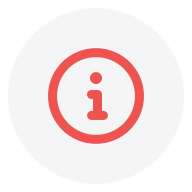
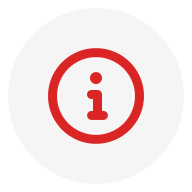
update theme for accessibility

Changed region(s): [[0.25, 0.25, 0.75, 0.75], [0.4375, 0.4688, 0.5625, 0.625], [0.4688, 0.375, 0.5312, 0.4375]]

diff --git a/docs/css/styles.css b/docs/css/styles.css
@@ -1,1 +1,1 @@
-:root{--sans-font:-apple-system,BlinkMacSystemFont,"Avenir Next",Avenir,"Nimbus Sans L",Roboto,Noto,"Segoe UI",Arial,Helvetica,"Helvetica Neue",sans-serif;--mono-font:Consolas,Menlo,Monaco,"Andale Mono","Ubuntu Mono",monospace;--accent:#e23834;--accent-text:#f5f7ff;--bg:#fff;--accent-2:#f5f7ff;--text:#212121;--text-light:#585858;--code:#d81b60;--preformatted:#444;--marked:#ffdd33;--disabled:#efefef}@media (prefers-color-scheme:dark){:root{color-scheme:dark;--bg:#212121;--accent-2:#2b2b2b;--text:#dcdcdc;--text-light:#ababab;--code:#f06292;--preformatted:#ccc;--disabled:#111}img,video{opacity:.8}}html{font-family:var(--sans-font);scroll-behavior:smooth}body{color:var(--text);background:var(--bg);font-size:1.15rem;line-height:1.5;display:grid;grid-template-columns:1fr min(45rem,90%) 1fr;margin:0}body>*{grid-column:2}body>header{background:var(--accent);text-align:center;padding:0 .5rem 2rem .5rem;grid-column:1/-1;box-sizing:border-box;position:sticky;top:0;z-index:1000}body>header h1{max-width:1200px;margin:1rem auto}body>header p{max-width:40rem;margin:1rem auto}body>header *{color:var(--accent-text)}main{padding-top:1.5rem}body>footer{margin-top:4rem;padding:2rem 1rem 1.5rem 1rem;color:var(--text-light);font-size:.9rem;text-align:center;border-top:1px solid var(--text)}h1{font-size:3rem}h2{font-size:2.6rem;margin-top:3rem}h3{font-size:2rem;margin-top:3rem}h4{font-size:1.44rem}h5{font-size:1.15rem}h6{font-size:.96rem}h1,h2,h3{line-height:1.1}@media only screen and (max-width:720px){h1{font-size:2.5rem}h2{font-size:2.1rem}h3{font-size:1.75rem}h4{font-size:1.25rem}}a,a:visited{color:var(--accent)}a:hover{text-decoration:none}[role=button],button,input[type=button],input[type=reset],input[type=submit],label[type=button]{border:none;border-radius:.2rem;background:var(--accent);font-size:1rem;color:var(--accent-text);padding:.7rem .9rem;margin:.5rem 0}[role=button][aria-disabled=true],button[disabled],input[type=button][disabled],input[type=checkbox][disabled],input[type=radio][disabled],input[type=reset][disabled],input[type=submit][disabled],select[disabled]{opacity:.5;cursor:not-allowed}input:disabled,select:disabled,textarea:disabled{cursor:not-allowed;background-color:var(--disabled)}input[type=range]{padding:0}abbr{cursor:help}[role=button]:focus,[role=button]:not([aria-disabled=true]):hover,button:enabled:hover,button:focus,input[type=button]:enabled:hover,input[type=button]:focus,input[type=reset]:enabled:hover,input[type=reset]:focus,input[type=submit]:enabled:hover,input[type=submit]:focus,label[type=button]:focus,label[type=button]:hover{cursor:pointer}nav{font-size:1rem;line-height:2;padding:1rem 0 0 0}nav ol,nav ul{align-content:space-around;align-items:center;display:flex;flex-direction:row;justify-content:center;list-style-type:none;margin:0;padding:0}nav ol li,nav ul li{display:inline-block}nav a,nav a:visited{margin:0 1rem 1rem 0;border:1px solid var(--accent-text);border-radius:.2rem;color:var(--accent-text);display:inline-block;padding:.1rem 1rem;text-decoration:none}nav a:last-child{margin-right:0}@media only screen and (max-width:720px){nav a{border:none;padding:0;text-decoration:underline;line-height:1}}details{background:var(--accent);border:1px solid var(--accent-text);border-radius:.2rem;margin-bottom:1rem}summary{cursor:pointer;font-weight:700;padding:.6rem 1rem}details[open]{padding:.6rem 1rem .75rem 1rem}details[open] summary+*{margin-top:0}details[open] summary{margin-bottom:.5rem;padding:0}details[open]>:last-child{margin-bottom:0}table{border-collapse:collapse;width:100%;margin:1.5rem 0}td,th{border:1px solid var(--text);text-align:left;padding:.5rem}th{background:var(--accent-bg);font-weight:700}tr:nth-child(even){background:var(--accent-bg)}table caption{font-weight:700;margin-bottom:.5rem}input,select,textarea{font-size:inherit;font-family:inherit;padding:.5rem;margin-bottom:.5rem;color:var(--text);background:var(--bg);border:1px solid var(--text);border-radius:.2rem;box-shadow:none;box-sizing:border-box;width:60%;-moz-appearance:none;-webkit-appearance:none;appearance:none}input[type=checkbox],input[type=radio]{vertical-align:bottom;position:relative}input[type=radio]{border-radius:100%}input[type=checkbox]:checked,input[type=radio]:checked{background:var(--accent)}input[type=checkbox]:checked::after{content:" ";width:.1em;height:.25em;border-radius:0;position:absolute;top:.05em;left:.18em;background:0 0;border-right:solid var(--bg) .08em;border-bottom:solid var(--bg) .08em;font-size:1.8em;transform:rotate(45deg)}input[type=radio]:checked::after{content:" ";width:.25em;height:.25em;border-radius:100%;position:absolute;top:.125em;background:var(--bg);left:.125em;font-size:32px}textarea{width:80%}@media only screen and (max-width:720px){input,select,textarea{width:100%}}input[type=checkbox],input[type=radio]{width:auto}input[type=file]{border:0}hr{color:var(--text);border-top:1px;margin:1rem auto}mark{padding:2px 5px;border-radius:4px;background:var(--marked)}main img,main video{max-width:100%;height:auto;border-radius:.2rem}figure{margin:0;text-align:center}figcaption{font-size:.9rem;color:var(--text-light);margin-bottom:1rem}blockquote{margin:2rem 0 2rem 2rem;padding:.4rem .8rem;border-left:.35rem solid var(--accent);color:var(--text-light);font-style:italic}cite{font-size:.9rem;color:var(--text-light);font-style:normal}code,kbd,pre,pre span,samp{font-family:var(--mono-font);color:var(--code)}kbd{color:var(--preformatted);border:1px solid var(--preformatted);border-bottom:3px solid var(--preformatted);border-radius:.2rem;padding:.1rem .4rem}pre{padding:1rem 1.4rem;max-width:100%;overflow:auto;color:var(--preformatted);background:var(--accent-bg);border:1px solid var(--text);border-radius:.2rem}pre code{color:var(--preformatted);background:0 0;margin:0;padding:0}*{word-wrap:break-word;-webkit-user-select:none;user-select:none;font-family:-apple-system,BlinkMacSystemFont,"Avenir Next",Avenir,"Nimbus Sans L",Roboto,Noto,"Segoe UI",Arial,Helvetica,"Helvetica Neue",sans-serif;border-radius:.2rem}[aria-current=page]{font-weight:700;font-style:italic}input,select,textarea{width:100%;resize:none;font-family:Consolas,Menlo,Monaco,"Andale Mono","Ubuntu Mono",monospace;-webkit-user-select:text;user-select:text}body>header{padding-bottom:0;border:none}nav{padding:0}main{padding-top:.5rem}progress{width:100%}progress::-webkit-progress-bar{border-radius:.2rem}progress::-webkit-progress-value{border-radius:.2rem;transition-property:width;transition-duration:.3s}progress::-moz-progress-bar{border-radius:.2rem}label{display:inline-block}
+:root{--sans-font:-apple-system,BlinkMacSystemFont,"Avenir Next",Avenir,"Nimbus Sans L",Roboto,Noto,"Segoe UI",Arial,Helvetica,"Helvetica Neue",sans-serif;--mono-font:Consolas,Menlo,Monaco,"Andale Mono","Ubuntu Mono",monospace;--accent:#db2525;--accent-text:#f5f7ff;--bg:#fff;--accent-2:#f5f7ff;--text:#212121;--text-light:#585858;--code:#d81b60;--preformatted:#444;--marked:#ffdd33;--disabled:#efefef}@media (prefers-color-scheme:dark){:root{color-scheme:dark;--bg:#212121;--accent-2:#2b2b2b;--text:#dcdcdc;--text-light:#ababab;--code:#f06292;--preformatted:#ccc;--disabled:#111}img,video{opacity:.8}}html{font-family:var(--sans-font);scroll-behavior:smooth}body{color:var(--text);background:var(--bg);font-size:1.15rem;line-height:1.5;display:grid;grid-template-columns:1fr min(45rem,90%) 1fr;margin:0}body>*{grid-column:2}body>header{background:var(--accent);text-align:center;padding:0 .5rem 2rem .5rem;grid-column:1/-1;box-sizing:border-box;position:sticky;top:0;z-index:1000}body>header h1{max-width:1200px;margin:1rem auto}body>header p{max-width:40rem;margin:1rem auto}body>header *{color:var(--accent-text)}main{padding-top:1.5rem}body>footer{margin-top:4rem;padding:2rem 1rem 1.5rem 1rem;color:var(--text-light);font-size:.9rem;text-align:center;border-top:1px solid var(--text)}h1{font-size:3rem}h2{font-size:2.6rem;margin-top:3rem}h3{font-size:2rem;margin-top:3rem}h4{font-size:1.44rem}h5{font-size:1.15rem}h6{font-size:.96rem}h1,h2,h3{line-height:1.1}@media only screen and (max-width:720px){h1{font-size:2.5rem}h2{font-size:2.1rem}h3{font-size:1.75rem}h4{font-size:1.25rem}}a,a:visited{color:var(--accent)}a:hover{text-decoration:none}[role=button],button,input[type=button],input[type=reset],input[type=submit],label[type=button]{border:none;border-radius:.2rem;background:var(--accent);font-size:1rem;color:var(--accent-text);padding:.7rem .9rem;margin:.5rem 0}[role=button][aria-disabled=true],button[disabled],input[type=button][disabled],input[type=checkbox][disabled],input[type=radio][disabled],input[type=reset][disabled],input[type=submit][disabled],select[disabled]{opacity:.5;cursor:not-allowed}input:disabled,select:disabled,textarea:disabled{cursor:not-allowed;background-color:var(--disabled)}input[type=range]{padding:0}abbr{cursor:help}[role=button]:focus,[role=button]:not([aria-disabled=true]):hover,button:enabled:hover,button:focus,input[type=button]:enabled:hover,input[type=button]:focus,input[type=reset]:enabled:hover,input[type=reset]:focus,input[type=submit]:enabled:hover,input[type=submit]:focus,label[type=button]:focus,label[type=button]:hover{cursor:pointer}nav{font-size:1rem;line-height:2;padding:1rem 0 0 0}nav ol,nav ul{align-content:space-around;align-items:center;display:flex;flex-direction:row;justify-content:center;list-style-type:none;margin:0;padding:0}nav ol li,nav ul li{display:inline-block}nav a,nav a:visited{margin:0 1rem 1rem 0;border:1px solid var(--accent-text);border-radius:.2rem;color:var(--accent-text);display:inline-block;padding:.1rem 1rem;text-decoration:none}nav a:last-child{margin-right:0}@media only screen and (max-width:720px){nav a{border:none;padding:0;text-decoration:underline;line-height:1}}details{background:var(--accent);border:1px solid var(--accent-text);border-radius:.2rem;margin-bottom:1rem}summary{cursor:pointer;font-weight:700;padding:.6rem 1rem}details[open]{padding:.6rem 1rem .75rem 1rem}details[open] summary+*{margin-top:0}details[open] summary{margin-bottom:.5rem;padding:0}details[open]>:last-child{margin-bottom:0}table{border-collapse:collapse;width:100%;margin:1.5rem 0}td,th{border:1px solid var(--text);text-align:left;padding:.5rem}th{background:var(--accent-bg);font-weight:700}tr:nth-child(even){background:var(--accent-bg)}table caption{font-weight:700;margin-bottom:.5rem}input,select,textarea{font-size:inherit;font-family:inherit;padding:.5rem;margin-bottom:.5rem;color:var(--text);background:var(--bg);border:1px solid var(--text);border-radius:.2rem;box-shadow:none;box-sizing:border-box;width:60%;-moz-appearance:none;-webkit-appearance:none;appearance:none}input[type=checkbox],input[type=radio]{vertical-align:bottom;position:relative}input[type=radio]{border-radius:100%}input[type=checkbox]:checked,input[type=radio]:checked{background:var(--accent)}input[type=checkbox]:checked::after{content:" ";width:.1em;height:.25em;border-radius:0;position:absolute;top:.05em;left:.18em;background:0 0;border-right:solid var(--bg) .08em;border-bottom:solid var(--bg) .08em;font-size:1.8em;transform:rotate(45deg)}input[type=radio]:checked::after{content:" ";width:.25em;height:.25em;border-radius:100%;position:absolute;top:.125em;background:var(--bg);left:.125em;font-size:32px}textarea{width:80%}@media only screen and (max-width:720px){input,select,textarea{width:100%}}input[type=checkbox],input[type=radio]{width:auto}input[type=file]{border:0}hr{color:var(--text);border-top:1px;margin:1rem auto}mark{padding:2px 5px;border-radius:4px;background:var(--marked)}main img,main video{max-width:100%;height:auto;border-radius:.2rem}figure{margin:0;text-align:center}figcaption{font-size:.9rem;color:var(--text-light);margin-bottom:1rem}blockquote{margin:2rem 0 2rem 2rem;padding:.4rem .8rem;border-left:.35rem solid var(--accent);color:var(--text-light);font-style:italic}cite{font-size:.9rem;color:var(--text-light);font-style:normal}code,kbd,pre,pre span,samp{font-family:var(--mono-font);color:var(--code)}kbd{color:var(--preformatted);border:1px solid var(--preformatted);border-bottom:3px solid var(--preformatted);border-radius:.2rem;padding:.1rem .4rem}pre{padding:1rem 1.4rem;max-width:100%;overflow:auto;color:var(--preformatted);background:var(--accent-bg);border:1px solid var(--text);border-radius:.2rem}pre code{color:var(--preformatted);background:0 0;margin:0;padding:0}*{word-wrap:break-word;-webkit-user-select:none;user-select:none;font-family:-apple-system,BlinkMacSystemFont,"Avenir Next",Avenir,"Nimbus Sans L",Roboto,Noto,"Segoe UI",Arial,Helvetica,"Helvetica Neue",sans-serif;border-radius:.2rem}[aria-current=page]{font-weight:700;font-style:italic}input,select,textarea{width:100%;resize:none;font-family:Consolas,Menlo,Monaco,"Andale Mono","Ubuntu Mono",monospace;-webkit-user-select:text;user-select:text}body>header{padding-bottom:0;border:none}nav{padding:0}main{padding-top:.5rem}progress{width:100%}progress::-webkit-progress-bar{border-radius:.2rem}progress::-webkit-progress-value{border-radius:.2rem;transition-property:width;transition-duration:.3s}progress::-moz-progress-bar{border-radius:.2rem}label{display:inline-block}

diff --git a/docs/index.html b/docs/index.html
@@ -1,1 +1,1 @@
-<!DOCTYPE html><html lang="en-GB"dir="ltr"><link rel="stylesheet"href="css/styles.css"><script>"serviceWorker"in navigator&&navigator.serviceWorker.register("sw.js",{scope:""})</script><title>Brainf Interpreter</title><link rel="manifest"href="manifest.json"><meta name="theme-color"content="#e23834"><link rel="apple-touch-icon"sizes="180x180"href="images/appicons/square-180.png"><meta name="msapplication-TileColor"content="#e23834"><meta name="msapplication-TileImage"sizes="150x150"content="images/appicons/square-180.png"><meta name="msapplication-starturl"content=""><link rel="icon"type="image/png"sizes="256x256"href="images/appicons/squircle-256.png"><link rel="icon"type="image/png"sizes="32x32"href="images/appicons/squircle-256.png"><meta name="description"content="Interpreter for the &#39;Brainf&#39; programming language"><meta name="keywords"content="Interpreter for the &#39;Brainf&#39; programming language"><meta charset="utf-8"><meta name="viewport"content="width=device-width,initial-scale=1"><header><h1>Brainf</h1><nav id="js-nav"><a aria-current="page"href="index.html">Brainf Interpreter</a><a href="about.html">About</a></nav></header><main><div><button onclick="downloadBf()">💾 Save to Downloads</button> <label type="button"for="files">📂 Open Brainf Source</label><br><input type="file"id="files"style="display:none"onchange="openBrainfSource()"></div><form><label for="filename">Filename:</label><br><input placeholder="Filename"id="filename"> <label for="code">Code:</label><br><textarea placeholder="Code"rows="20"cols="1"id="code"></textarea><p>Mode:</p><input type="radio"name="var"value="1"id="mode-ascii"checked="checked"><label for="mode-ascii">ASCII</label><br><input type="radio"name="var"value="2"id="mode-integer"><label for="mode-integer">Integer</label><br><label for="output">Output:</label><br><textarea rows="4"cols="1"id="output"></textarea></form><div><button onclick="brainfBF()">🏃♂ Run</button> <button onclick="copy()">📋 Copy Output</button></div></main><script src="js/script.js"></script><script src="js/brainf.js"></script>
+<!DOCTYPE html><html lang="en-GB"dir="ltr"><link rel="stylesheet"href="css/styles.css"><script>"serviceWorker"in navigator&&navigator.serviceWorker.register("sw.js",{scope:""})</script><title>Brainf Interpreter</title><link rel="manifest"href="manifest.json"><meta name="theme-color"content="#db2525"><link rel="apple-touch-icon"sizes="180x180"href="images/appicons/square-180.png"><meta name="msapplication-TileColor"content="#db2525"><meta name="msapplication-TileImage"sizes="150x150"content="images/appicons/square-180.png"><meta name="msapplication-starturl"content=""><link rel="icon"type="image/png"sizes="256x256"href="images/appicons/squircle-256.png"><link rel="icon"type="image/png"sizes="32x32"href="images/appicons/squircle-256.png"><meta name="description"content="Interpreter for the &#39;Brainf&#39; programming language"><meta name="keywords"content="Interpreter for the &#39;Brainf&#39; programming language"><meta charset="utf-8"><meta name="viewport"content="width=device-width,initial-scale=1"><header><h1>Brainf</h1><nav id="js-nav"><a aria-current="page"href="index.html">Brainf Interpreter</a><a href="about.html">About</a></nav></header><main><div><button onclick="downloadBf()">💾 Save to Downloads</button> <label type="button"for="files">📂 Open Brainf Source</label><br><input type="file"id="files"style="display:none"onchange="openBrainfSource()"></div><form><label for="filename">Filename:</label><br><input placeholder="Filename"id="filename"> <label for="code">Code:</label><br><textarea placeholder="Code"rows="20"cols="1"id="code"></textarea><p>Mode:</p><input type="radio"name="var"value="1"id="mode-ascii"checked="checked"><label for="mode-ascii">ASCII</label><br><input type="radio"name="var"value="2"id="mode-integer"><label for="mode-integer">Integer</label><br><label for="output">Output:</label><br><textarea rows="4"cols="1"id="output"></textarea></form><div><button onclick="brainfBF()">🏃♂ Run</button> <button onclick="copy()">📋 Copy Output</button></div></main><script src="js/script.js"></script><script src="js/brainf.js"></script>

diff --git a/docs/about.html b/docs/about.html
@@ -1,1 +1,1 @@
-<!DOCTYPE html><html lang="en-GB"dir="ltr"><link rel="stylesheet"href="css/styles.css"><script>"serviceWorker"in navigator&&navigator.serviceWorker.register("sw.js",{scope:""})</script><title>About</title><link rel="manifest"href="manifest.json"><meta name="theme-color"content="#e23834"><link rel="apple-touch-icon"sizes="180x180"href="images/appicons/square-180.png"><meta name="msapplication-TileColor"content="#e23834"><meta name="msapplication-TileImage"sizes="150x150"content="images/appicons/square-180.png"><meta name="msapplication-starturl"content=""><link rel="icon"type="image/png"sizes="256x256"href="images/appicons/squircle-256.png"><link rel="icon"type="image/png"sizes="32x32"href="images/appicons/squircle-256.png"><meta name="description"content="Interpreter for the &#39;Brainf&#39; programming language"><meta name="keywords"content="Interpreter for the &#39;Brainf&#39; programming language"><meta charset="utf-8"><meta name="viewport"content="width=device-width,initial-scale=1"><header><h1>Brainf</h1><nav id="js-nav"><a href="index.html">Brainf Interpreter</a><a aria-current="page"href="about.html">About</a></nav></header><main><h1>Info</h1><p>Interpreter for the 'Brainf' programming language<h1>Features</h1><p>Create, edit, save and run brainf code/ text files in the browser<h1>MIT License</h1><p>Copyright (c) FredHappyface<h1>Links</h1><ul><li>Project: <a href="https://github.com/FHPWA/brainf">https://github.com/FHPWA/brainf</a><li>License: <a href="https://github.com/FHPWA/brainf/blob/master/LICENSE.md">https://github.com/FHPWA/brainf/blob/master/LICENSE.md</a></ul></main>
+<!DOCTYPE html><html lang="en-GB"dir="ltr"><link rel="stylesheet"href="css/styles.css"><script>"serviceWorker"in navigator&&navigator.serviceWorker.register("sw.js",{scope:""})</script><title>About</title><link rel="manifest"href="manifest.json"><meta name="theme-color"content="#db2525"><link rel="apple-touch-icon"sizes="180x180"href="images/appicons/square-180.png"><meta name="msapplication-TileColor"content="#db2525"><meta name="msapplication-TileImage"sizes="150x150"content="images/appicons/square-180.png"><meta name="msapplication-starturl"content=""><link rel="icon"type="image/png"sizes="256x256"href="images/appicons/squircle-256.png"><link rel="icon"type="image/png"sizes="32x32"href="images/appicons/squircle-256.png"><meta name="description"content="Interpreter for the &#39;Brainf&#39; programming language"><meta name="keywords"content="Interpreter for the &#39;Brainf&#39; programming language"><meta charset="utf-8"><meta name="viewport"content="width=device-width,initial-scale=1"><header><h1>Brainf</h1><nav id="js-nav"><a href="index.html">Brainf Interpreter</a><a aria-current="page"href="about.html">About</a></nav></header><main><h1>Info</h1><p>Interpreter for the 'Brainf' programming language<h1>Features</h1><p>Create, edit, save and run brainf code/ text files in the browser<h1>MIT License</h1><p>Copyright (c) FredHappyface<h1>Links</h1><ul><li>Project: <a href="https://github.com/FHPWA/brainf">https://github.com/FHPWA/brainf</a><li>License: <a href="https://github.com/FHPWA/brainf/blob/master/LICENSE.md">https://github.com/FHPWA/brainf/blob/master/LICENSE.md</a></ul></main>
